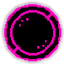
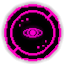
Added shadowGate

Changed region(s): [[0.3438, 0.4062, 0.6875, 0.625]]

diff --git a/SharpDungeon/Game/Graphics/Assets.cs b/SharpDungeon/Game/Graphics/Assets.cs
@@ -20,8 +20,19 @@ namespace SharpDungeon.Game.Graphics {
 
         //Tiles
 
-        public static Bitmap air, stone;
-        public static Bitmap[] stoneWall, door;
+        public static Bitmap air, stone, planks, upStairs, downStairs;
+        public static Bitmap[] stoneWall, door, shadowGate;
+
+        //Items
+
+        public static Bitmap[] itemShadow;
+        public static Bitmap redRupy, greenRupy, purpleRupy;
+        public static Bitmap fireKnob, lightingKnob, poisonKnob;
+        public static Bitmap key, shadowKey;
+        public static Bitmap brownTrash1, brownThrash2, brownTrash3, brownTrash4,
+                             blueTrash1, blueTrash2, blueTrash3, blueTrash4,
+                             redTrash1, redTrash2, redTrash3, redTrash4;
+
 
         //Player
 
@@ -52,6 +63,7 @@ namespace SharpDungeon.Game.Graphics {
                 SpriteSheet tileSheet = new SpriteSheet("../../Assets/tilesWorld.png");
                 SpriteSheet entitiesSheet = new SpriteSheet("../../Assets/entities.png");
                 SpriteSheet uiSheet = new SpriteSheet("../../Assets/ui.png");
+                SpriteSheet itemsSheet = new SpriteSheet("../../Assets/items.png");
 
                 background = new Bitmap("../../Assets/background.png");
                 backgroundLoading = new Bitmap("../../Assets/backgroundLoading.png");
@@ -60,8 +72,8 @@ namespace SharpDungeon.Game.Graphics {
                 themeFont = new Font(f.Families[0], 10);
                 themeFontBig = new Font(f.Families[0], 20);
 
-                air = tileSheet.crop(width * 5, height * 2, width, height);
-                stone = tileSheet.crop(width * 3, height * 2, width, height);
+                air = tileSheet.crop(width * 6, height * 2, width, height);
+                stone = tileSheet.crop(width * 4, height * 2, width, height);
 
                 stoneWall = new Bitmap[24];
 
@@ -91,6 +103,29 @@ namespace SharpDungeon.Game.Graphics {
                 stoneWall[21] = tileSheet.crop(width * 9, height, width, height);
                 stoneWall[22] = tileSheet.crop(width * 10, height, width, height);
                 stoneWall[23] = tileSheet.crop(width * 11, height, width, height);
+
+                shadowGate = new Bitmap[19];
+                shadowGate[0] = tileSheet.crop(width * 11, height*3, width, height);
+
+                shadowGate[1] = tileSheet.crop(0, height * 4, width, height);
+                shadowGate[2] = tileSheet.crop(width, height * 4, width, height);
+                shadowGate[3] = tileSheet.crop(width * 2, height * 4, width, height);
+                shadowGate[4] = tileSheet.crop(width * 3, height * 4, width, height);
+                shadowGate[5] = tileSheet.crop(width * 4, height * 4, width, height);
+                shadowGate[6] = tileSheet.crop(width * 5, height * 4, width, height);
+                shadowGate[7] = tileSheet.crop(width * 6, height * 4, width, height);
+                shadowGate[8] = tileSheet.crop(width * 7, height * 4, width, height);
+                shadowGate[9] = tileSheet.crop(width * 8, height * 4, width, height);
+                shadowGate[10] = tileSheet.crop(width * 9, height * 4, width, height);
+                shadowGate[11] = tileSheet.crop(width * 10, height * 4, width, height);
+                shadowGate[12] = tileSheet.crop(width * 11, height * 4, width, height);
+
+                shadowGate[13] = tileSheet.crop(0, height * 5, width, height);
+                shadowGate[14] = tileSheet.crop(width, height * 5, width, height);
+                shadowGate[15] = tileSheet.crop(width * 2, height * 5, width, height);
+                shadowGate[16] = tileSheet.crop(width * 3, height * 5, width, height);
+                shadowGate[17] = tileSheet.crop(width * 4, height * 5, width, height);
+                shadowGate[18] = tileSheet.crop(width * 5, height * 5, width, height);
 
                 door = new Bitmap[4];
                 door[0] = tileSheet.crop(0, height * 2, width, height);

diff --git a/SharpDungeon/Game/Tiles/ShadowGateTile.cs b/SharpDungeon/Game/Tiles/ShadowGateTile.cs
@@ -1,0 +1,69 @@
+using SharpDungeon.Game.Graphics;
+using System;
+using System.Collections.Generic;
+using System.Drawing;
+using System.Linq;
+using System.Text;
+using System.Threading.Tasks;
+
+namespace SharpDungeon.Game.Tiles {
+    public class ShadowGateTile : TileSingleSide {
+
+        Animation an;
+        //Random rnd;
+        //List<int> ar;
+
+        //int posX=-1, posY=-1;
+        //int time = 0;
+
+        public ShadowGateTile(int id) : base(Assets.shadowGate[0], id) {
+            an = new Animation(10, Assets.shadowGate);
+            //rnd = new Random();
+        }
+
+        public override void tick(Handler handler, int x, int y) {
+            base.tick(handler, x, y);
+            an.tick();
+            currentTex = an.getCurrentFrame();
+            //if (time < 10) {
+            //    time++;
+            //} else {
+            //    time = 0;
+            //    posX = (int)(rnd.Next(x - 1, x + 2) * Tile.tileWidth);
+            //    posY = (int)(rnd.Next(y - 1, y + 2) * Tile.tileWidth);
+            //}
+        }
+
+        public override void render(System.Drawing.Graphics g, int x, int y) {
+            base.render(g, x, y);
+
+            //if (posX != -1 && posY != -1) {
+            //    ar = new List<int>();
+            //    splitn(x+32, y+32, posX+32, posY+32, ar, 7);
+            //    for (int i = 0; i < ar.Count - 2; i += 2) {
+            //        g.DrawLine(new Pen(Color.FromArgb(0, 0, 0), 2), ar[i], ar[i + 1], ar[i + 2], ar[i + 3]);
+            //        g.DrawLine(new Pen(Color.FromArgb(255, 0, 187), 2), ar[i], ar[i + 1], ar[i + 2], ar[i + 3]);
+            //    }
+            //}
+
+        }
+
+        public override bool isSolid() {
+            return false;
+        }
+
+        //public void splitn(int x1, int y1, int x2, int y2, List<int> arr, int cnt) {
+
+        //    --cnt;
+
+        //    int xMiddle = (int)(x1 + x2) / 2 + rnd.Next(-10, 10);
+        //    int yMiddle = (int)(y1 + y2) / 2 + rnd.Next(-10, 10);
+
+        //    if (cnt > 0) splitn(x1, y1, xMiddle, yMiddle, arr, cnt);
+        //    arr.Add(xMiddle);
+        //    arr.Add(yMiddle);
+        //    if (cnt > 0) splitn(xMiddle, yMiddle, x2, y2, arr, cnt);
+
+        //}
+    }
+}

diff --git a/SharpDungeon/Game/World/World.cs b/SharpDungeon/Game/World/World.cs
@@ -135,7 +135,7 @@ namespace SharpDungeon.Game.World {
                 rooms.Add(room);
             }
 
-            rooms.RemoveAt(rnd.Next(0, rooms.Count-1));
+            rooms.RemoveAt(rnd.Next(0, rooms.Count - 1));
             rooms.RemoveAt(rnd.Next(0, rooms.Count - 1));
 
             for (int i = 1; i < rooms.ToArray().Length; i++) {
@@ -227,7 +227,11 @@ namespace SharpDungeon.Game.World {
                             getTile(y + 1, x + 1) is StoneTile)
                                 tiles[y, x] = Tile.door.getId();
                     } catch (IndexOutOfRangeException e) { }
-            
+
+            Rectangle ree;
+            ree = rooms[rnd.Next(0, rooms.Count - 1)];
+            setTile(Tile.shadowGate.getId(), ree.Left+1, ree.Top+1);
+
             Rectangle re;
             re = rooms[rnd.Next(0, rooms.Count - 1)];
             spawnX = re.Left*64+64;

diff --git a/SharpDungeon/Game/Entities/Player.cs b/SharpDungeon/Game/Entities/Player.cs
@@ -56,6 +56,9 @@ namespace SharpDungeon.Game.Entities {
             currentAnimation.tick();
             handler.gameCamera.centerOnEntity(this);
 
+            if (handler.mouseManager.rightPressed)
+                handler.world.setTile(Tile.shadowGate.getId(), handler.world.toWorldX(handler.mouseManager.mouseX), handler.world.toWorldY(handler.mouseManager.mouseY));
+
             if (handler.mouseManager.leftPressed &&
                 handler.world.toWorldX(handler.mouseManager.mouseX) > 0 &&
                 handler.world.toWorldY(handler.mouseManager.mouseY) > 0) {

diff --git a/SharpDungeon/Game/Tiles/Tile.cs b/SharpDungeon/Game/Tiles/Tile.cs
@@ -16,6 +16,8 @@ namespace SharpDungeon.Game.Tiles {
         public static Tile stone = new StoneTile(2);
         public static Tile door = new DoorTile(3);
         public static Tile openDoor = new OpenDoorTile(4);
+        public static Tile planks = new PlanksTile(5);
+        public static Tile shadowGate = new ShadowGateTile(6);
 
         public static readonly int tileWidth = 64,
                                    tileHeight = 64;

diff --git a/SharpDungeon/Game/Tiles/PlanksTile.cs b/SharpDungeon/Game/Tiles/PlanksTile.cs
@@ -1,0 +1,20 @@
+using SharpDungeon.Game.Graphics;
+using System;
+using System.Collections.Generic;
+using System.Linq;
+using System.Text;
+using System.Threading.Tasks;
+
+namespace SharpDungeon.Game.Tiles {
+    public class PlanksTile : TileSingleSide {
+
+        public PlanksTile(int id) : base(Assets.planks, id) {
+
+        }
+
+        public override bool isSolid() {
+            return false;
+        }
+
+    }
+}

diff --git a/SharpDungeon/Game/Items/Item.cs b/SharpDungeon/Game/Items/Item.cs
@@ -1,0 +1,12 @@
+using System;
+using System.Collections.Generic;
+using System.Linq;
+using System.Text;
+using System.Threading.Tasks;
+
+namespace SharpDungeon.Game.Items {
+    public class Item {
+        public static Item[] items = new Item[256];
+        public static Item woodItem = new Item();
+    }
+}
